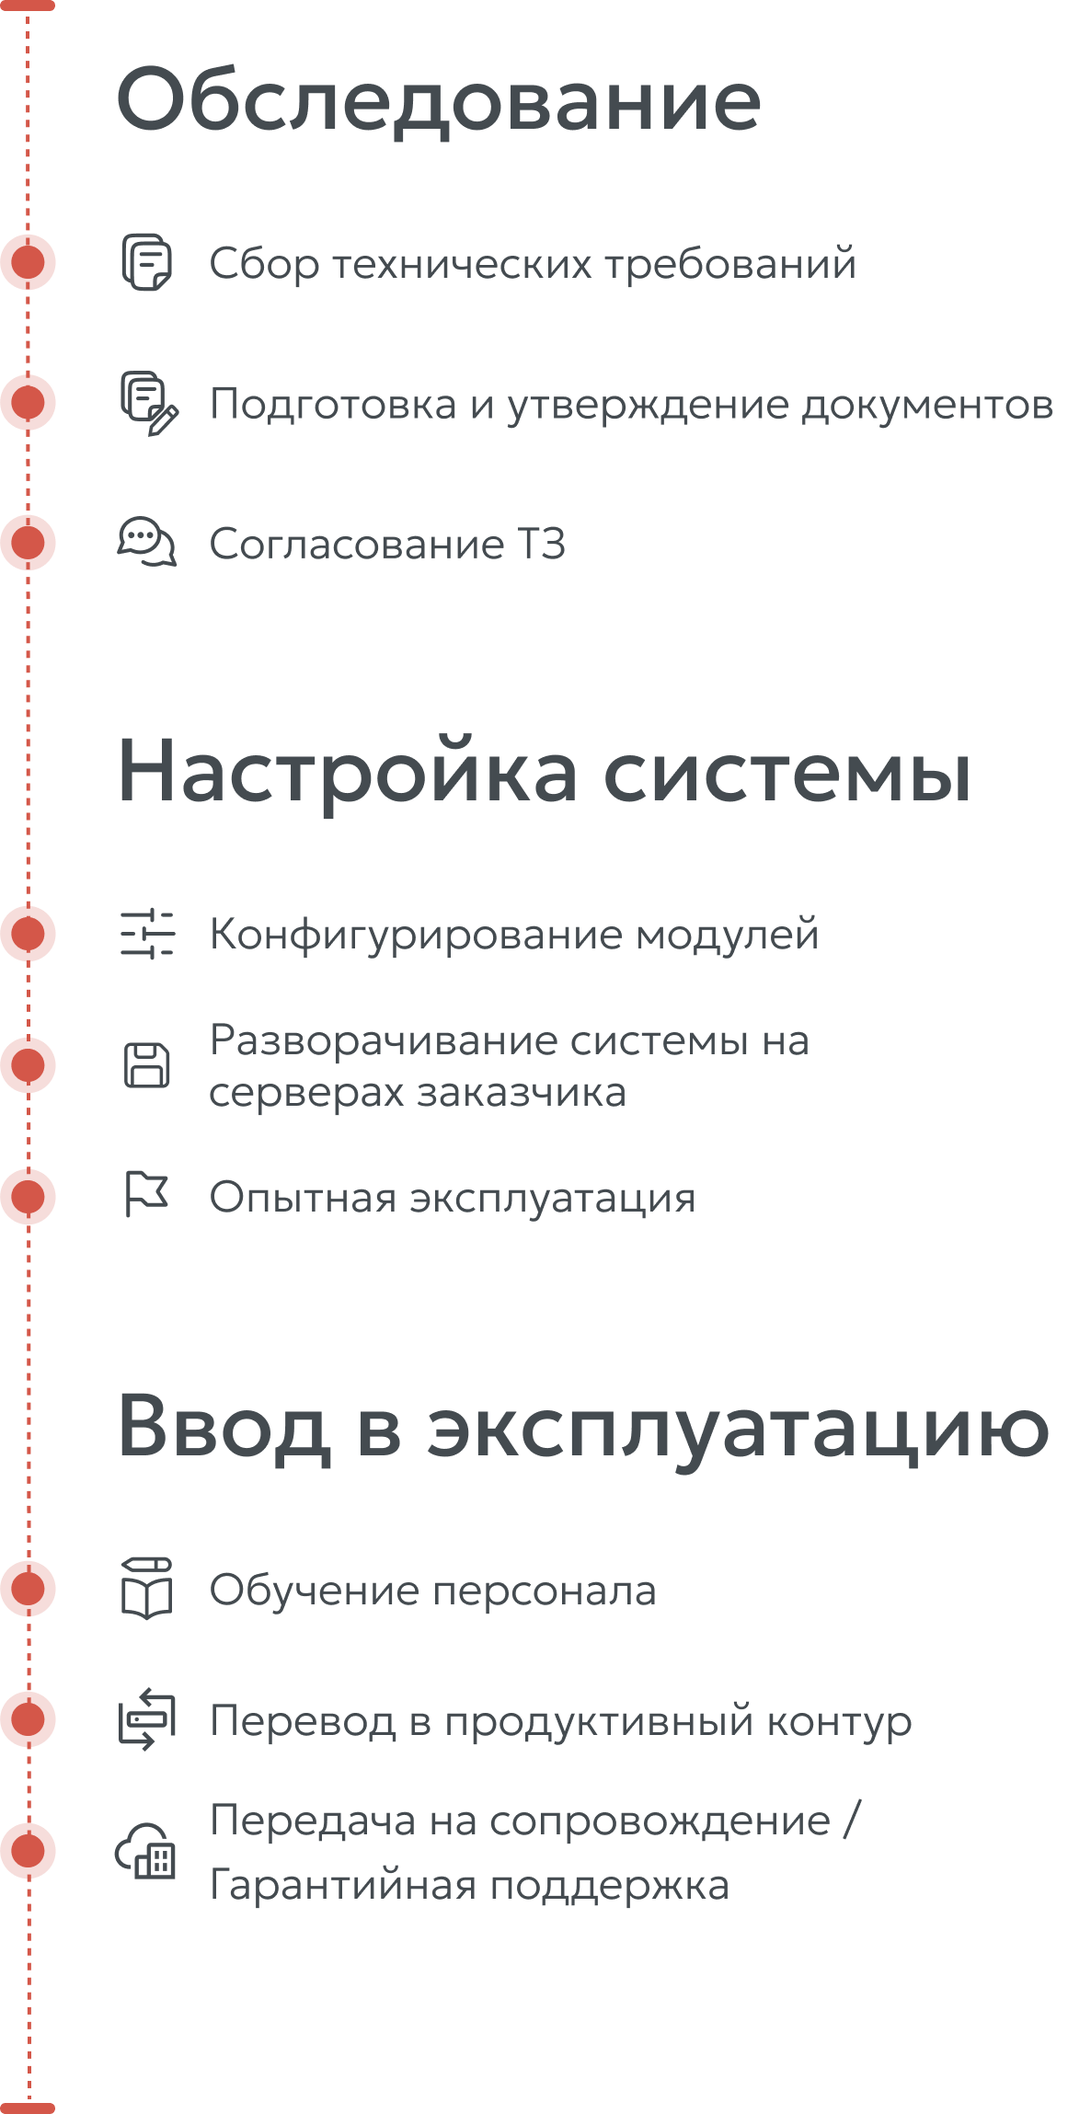
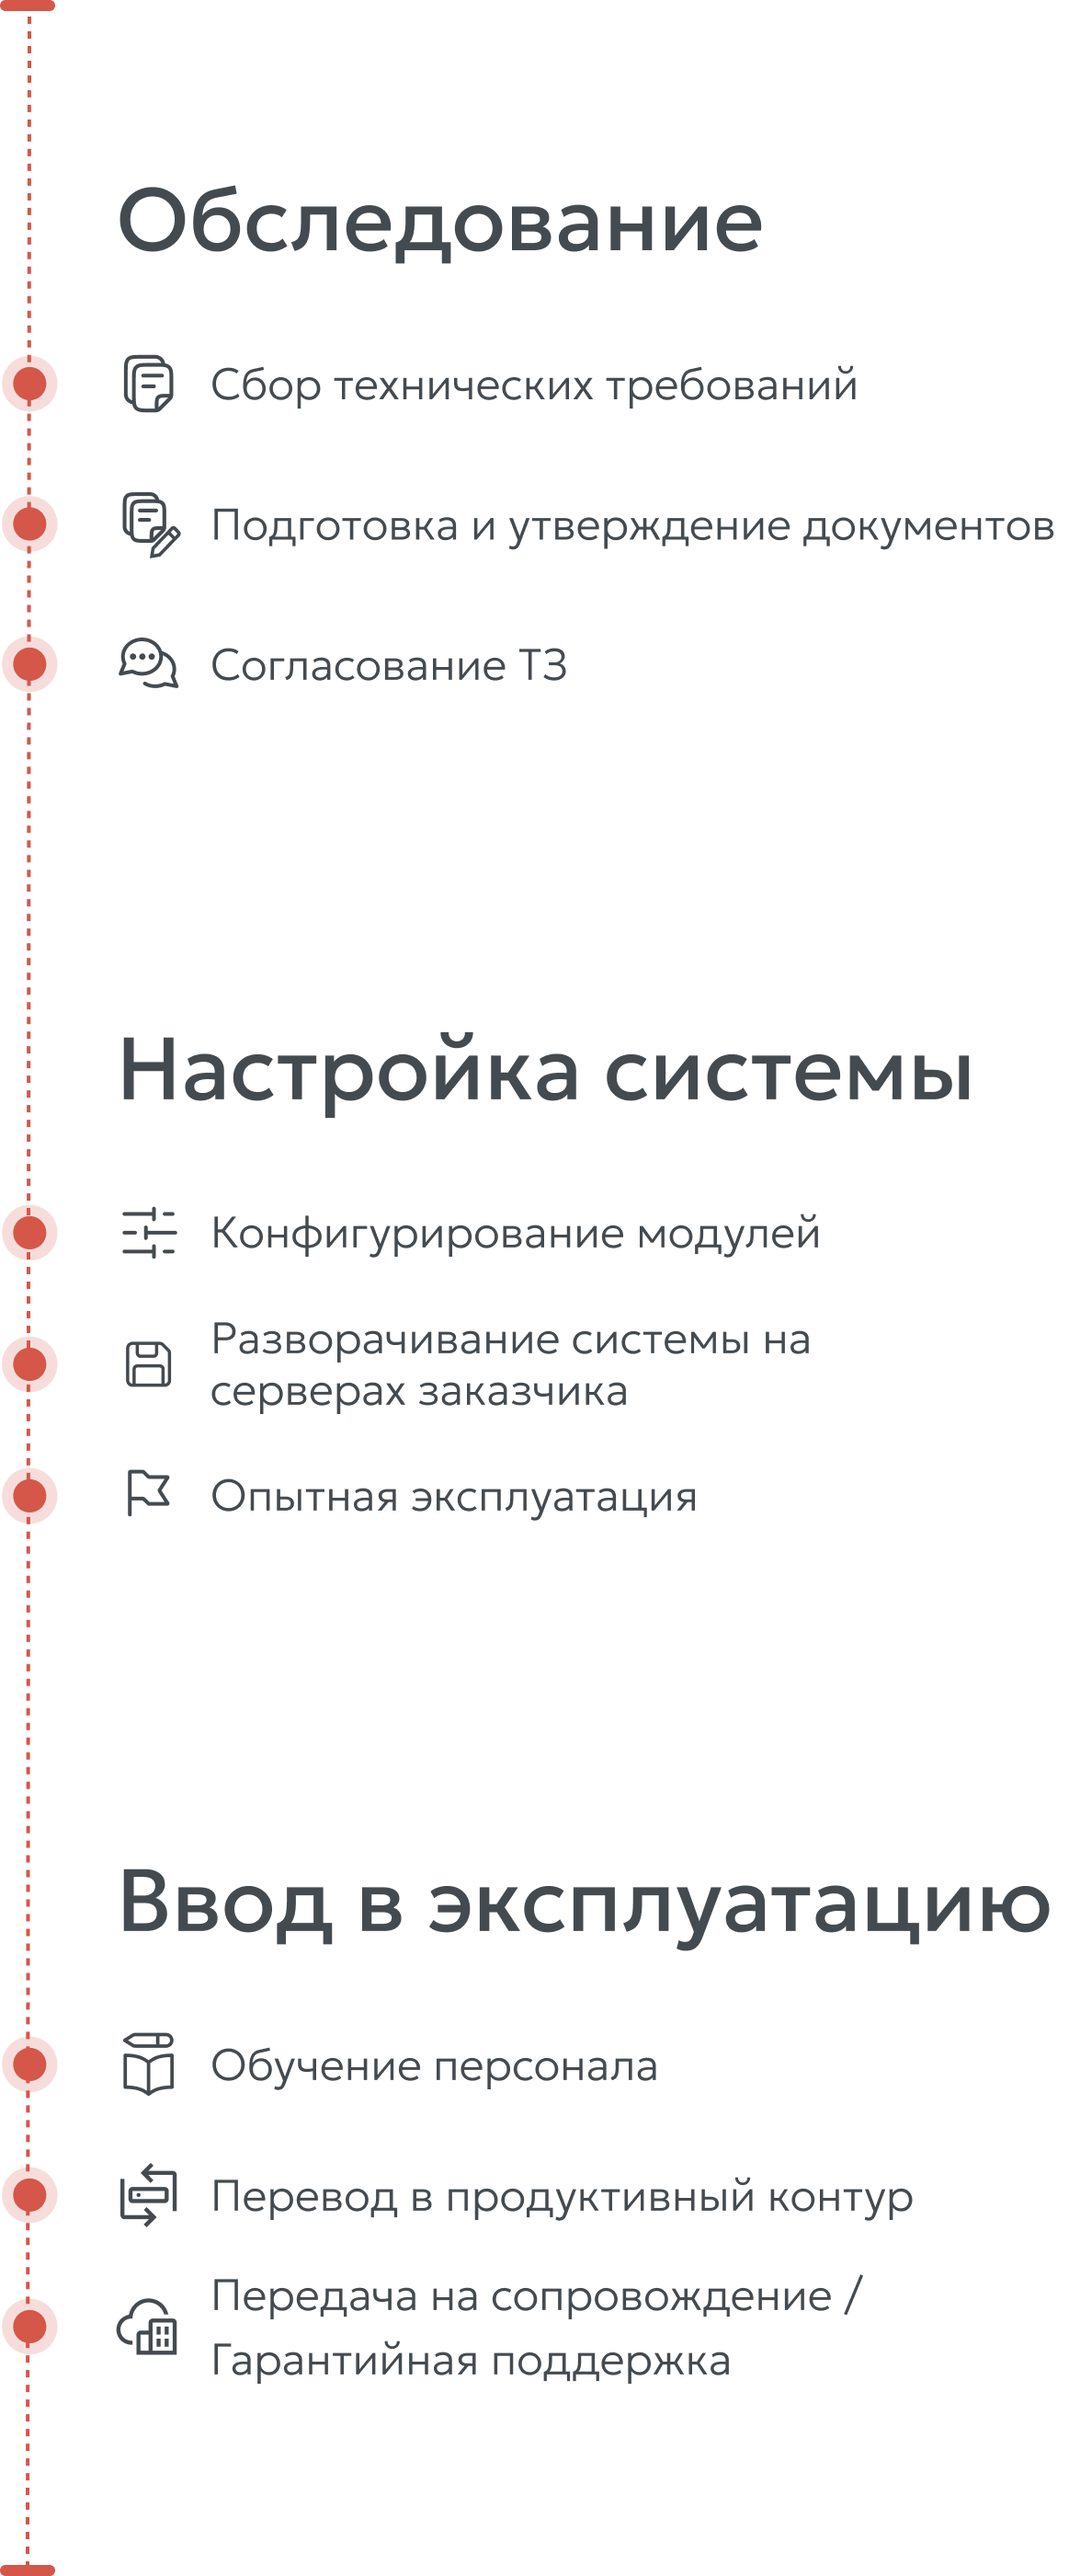
change_image

diff --git a/css/style.scss b/css/style.scss
@@ -709,7 +709,11 @@ body:has(dialog[open]) {
 
                 &__content[data-index="1"] {
                     min-height: 420px;
-                    margin: 0;
+                    margin-bottom: 172px;
+
+                    h2 {
+                        font-size: 5.2rem;
+                    }
                 }
             }
             
@@ -1822,6 +1826,7 @@ dialog:open {
 
         &__low-size {
             display: block;
+            width: 500px;
         }
     }
 
@@ -1839,14 +1844,29 @@ dialog:open {
         gap: 20px;
     }
 
-    .main .modules__content .module__content[data-index="1"] {
-        min-height: auto; 
-        margin-bottom: 78px;
+    .main .modules__content {
+        .module__content{
+            align-items: center;
+            margin-bottom: 78px !important;
+
+            &[data-index="1"] {
+                min-height: auto; 
+            }
+        }
     }
 
     .main .advantages__image {
         display: none;
     }
+
+    .main .modules__content ul {
+        padding-left: 22px !important;
+    }
+
+    .main .modules .p-left {
+        padding-left: 4px;
+    }
+    
 }
 
 @media (max-width: 768px) {
@@ -1935,18 +1955,6 @@ dialog:open {
     
     .button {
         padding: 20px 24px;
-    }
-
-    .main .modules__content ul {
-        padding-left: 22px !important;
-    }
-
-    .main .modules .p-left {
-        padding-left: 4px;
-    }
-
-    .main .modules__content .module__content { {
-        align-items: center;
     }
 }
 

diff --git a/css/style.css b/css/style.css
@@ -559,7 +559,10 @@ body:has(dialog[open]) {
 }
 .main .modules__content .module__content[data-index="1"] {
   min-height: 420px;
-  margin: 0;
+  margin-bottom: 172px;
+}
+.main .modules__content .module__content[data-index="1"] h2 {
+  font-size: 5.2rem;
 }
 .main .modules__content span {
   font-size: 2.4rem !important;
@@ -1473,6 +1476,7 @@ dialog:open::backdrop {
   }
   .main .integration__image__low-size {
     display: block;
+    width: 500px;
   }
   .main .integration__cover {
     overflow: visible;
@@ -1485,12 +1489,21 @@ dialog:open::backdrop {
     flex-direction: column;
     gap: 20px;
   }
+  .main .modules__content .module__content {
+    align-items: center;
+    margin-bottom: 78px !important;
+  }
   .main .modules__content .module__content[data-index="1"] {
     min-height: auto;
-    margin-bottom: 78px;
   }
   .main .advantages__image {
     display: none;
+  }
+  .main .modules__content ul {
+    padding-left: 22px !important;
+  }
+  .main .modules .p-left {
+    padding-left: 4px;
   }
 }
 @media (max-width: 768px) and (min-height: 1440px) {
@@ -1563,12 +1576,6 @@ dialog:open::backdrop {
   }
   .button {
     padding: 20px 24px;
-  }
-  .main .modules__content ul {
-    padding-left: 22px !important;
-  }
-  .main .modules .p-left {
-    padding-left: 4px;
   }
 }
 @media (max-width: 668px) {
